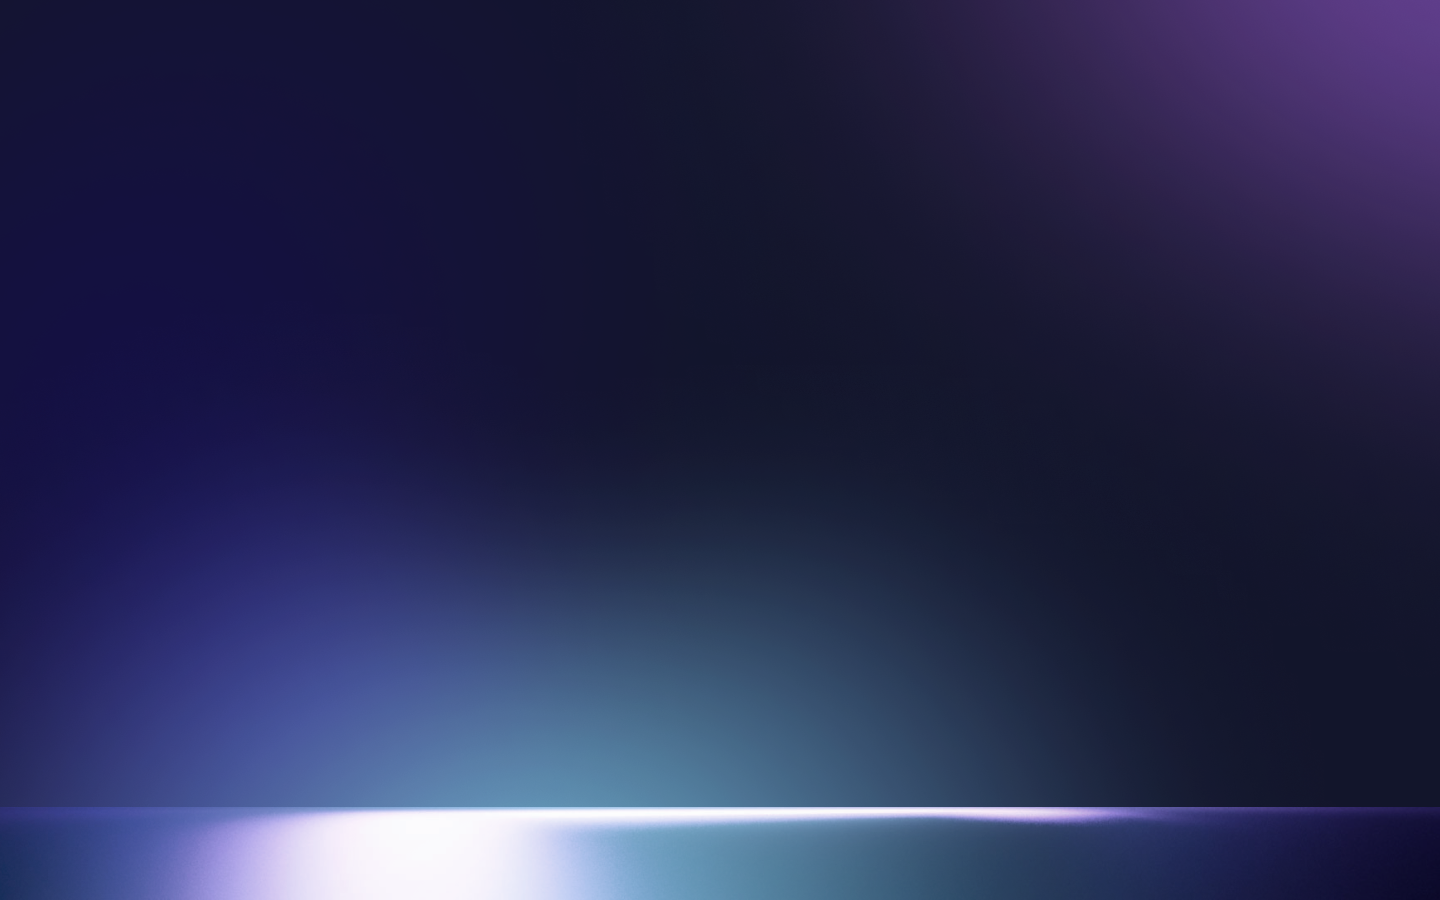
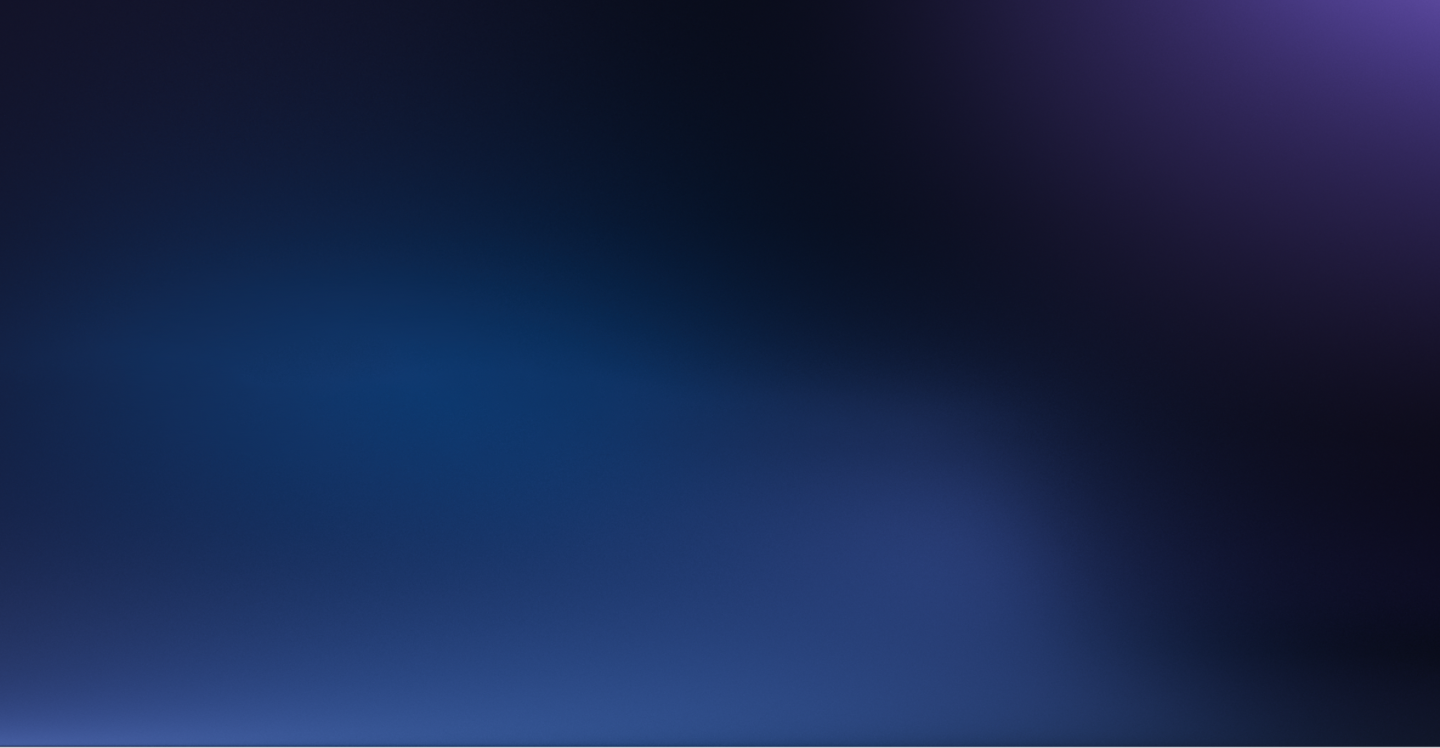
feat: updating landing page background image (#419)

diff --git a/lib/assets/assets.gen.dart b/lib/assets/assets.gen.dart
@@ -199,6 +199,10 @@ class $AssetsBackgroundsGen {
   AssetGenImage get landingBackground =>
       const AssetGenImage('assets/backgrounds/landing_background.png');
 
+  /// File path: assets/backgrounds/landing_background_footer.png
+  AssetGenImage get landingBackgroundFooter =>
+      const AssetGenImage('assets/backgrounds/landing_background_footer.png');
+
   /// File path: assets/backgrounds/loading_background.png
   AssetGenImage get loadingBackground =>
       const AssetGenImage('assets/backgrounds/loading_background.png');
@@ -234,6 +238,7 @@ class $AssetsBackgroundsGen {
         bgThumbnail08,
         holobooth,
         landingBackground,
+        landingBackgroundFooter,
         loadingBackground,
         shareBackground,
         videoFrame

diff --git a/lib/footer/widgets/full_footer.dart b/lib/footer/widgets/full_footer.dart
@@ -1,4 +1,5 @@
 import 'package:flutter/material.dart';
+import 'package:holobooth/assets/assets.dart';
 import 'package:holobooth/audio_player/audio_player.dart';
 import 'package:holobooth/footer/footer.dart';
 import 'package:holobooth/widgets/widgets.dart';
@@ -25,8 +26,14 @@ class FullFooter extends StatelessWidget {
       MediapipeIconLink(),
     ];
 
-    return SizedBox(
+    return Container(
       height: 100,
+      decoration: BoxDecoration(
+        image: DecorationImage(
+          image: AssetImage(Assets.backgrounds.landingBackgroundFooter.path),
+          fit: BoxFit.fill,
+        ),
+      ),
       child: ResponsiveLayoutBuilder(
         small: (context, child) {
           return Container(
